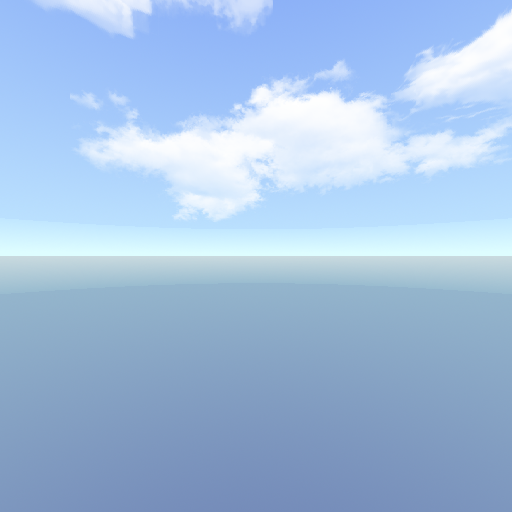
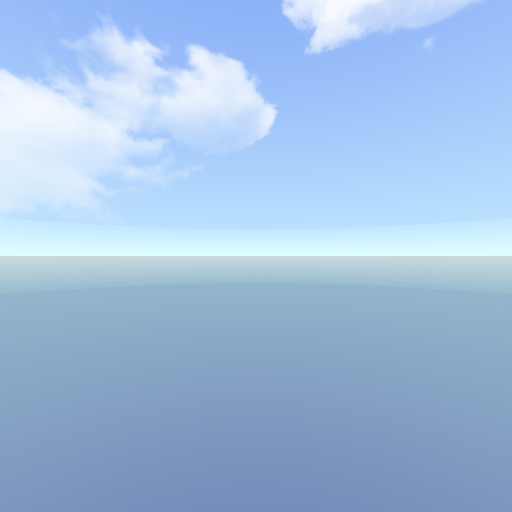
skybox funcionando top

Changed region(s): [[0.0, 0.0, 1.0, 0.4375]]

diff --git a/works/trabalho3/index.js b/works/trabalho3/index.js
@@ -57,7 +57,7 @@ renderer.setClearColor("rgb(30, 30, 40)");
 tesla = await loadGLTFFile('car/', 'scene.gltf');
 let car = tesla
 
-var camera = new THREE.PerspectiveCamera(70, window.innerWidth / window.innerHeight, 0.1, 1000);
+var camera = new THREE.PerspectiveCamera(70, window.innerWidth / window.innerHeight, 0.1, 2000);
 var target = new THREE.Vector3();
 var targetLight = new THREE.Vector3();
 scene.add(tesla)

diff --git a/works/trabalho3/skybox/skybox.js b/works/trabalho3/skybox/skybox.js
@@ -19,7 +19,7 @@ materialArray.push(new THREE.MeshBasicMaterial( { map: texture_lf })) ;
 for (let i = 0; i < 6; i++)
   materialArray[i].side = THREE.BackSide;
    
-let skyboxGeo = new THREE.BoxGeometry( 1440, 1440, 1440);
+let skyboxGeo = new THREE.BoxGeometry( 1500, 1500, 1500);
 let skybox = new THREE.Mesh( skyboxGeo, materialArray );
 scene.add( skybox );
 
